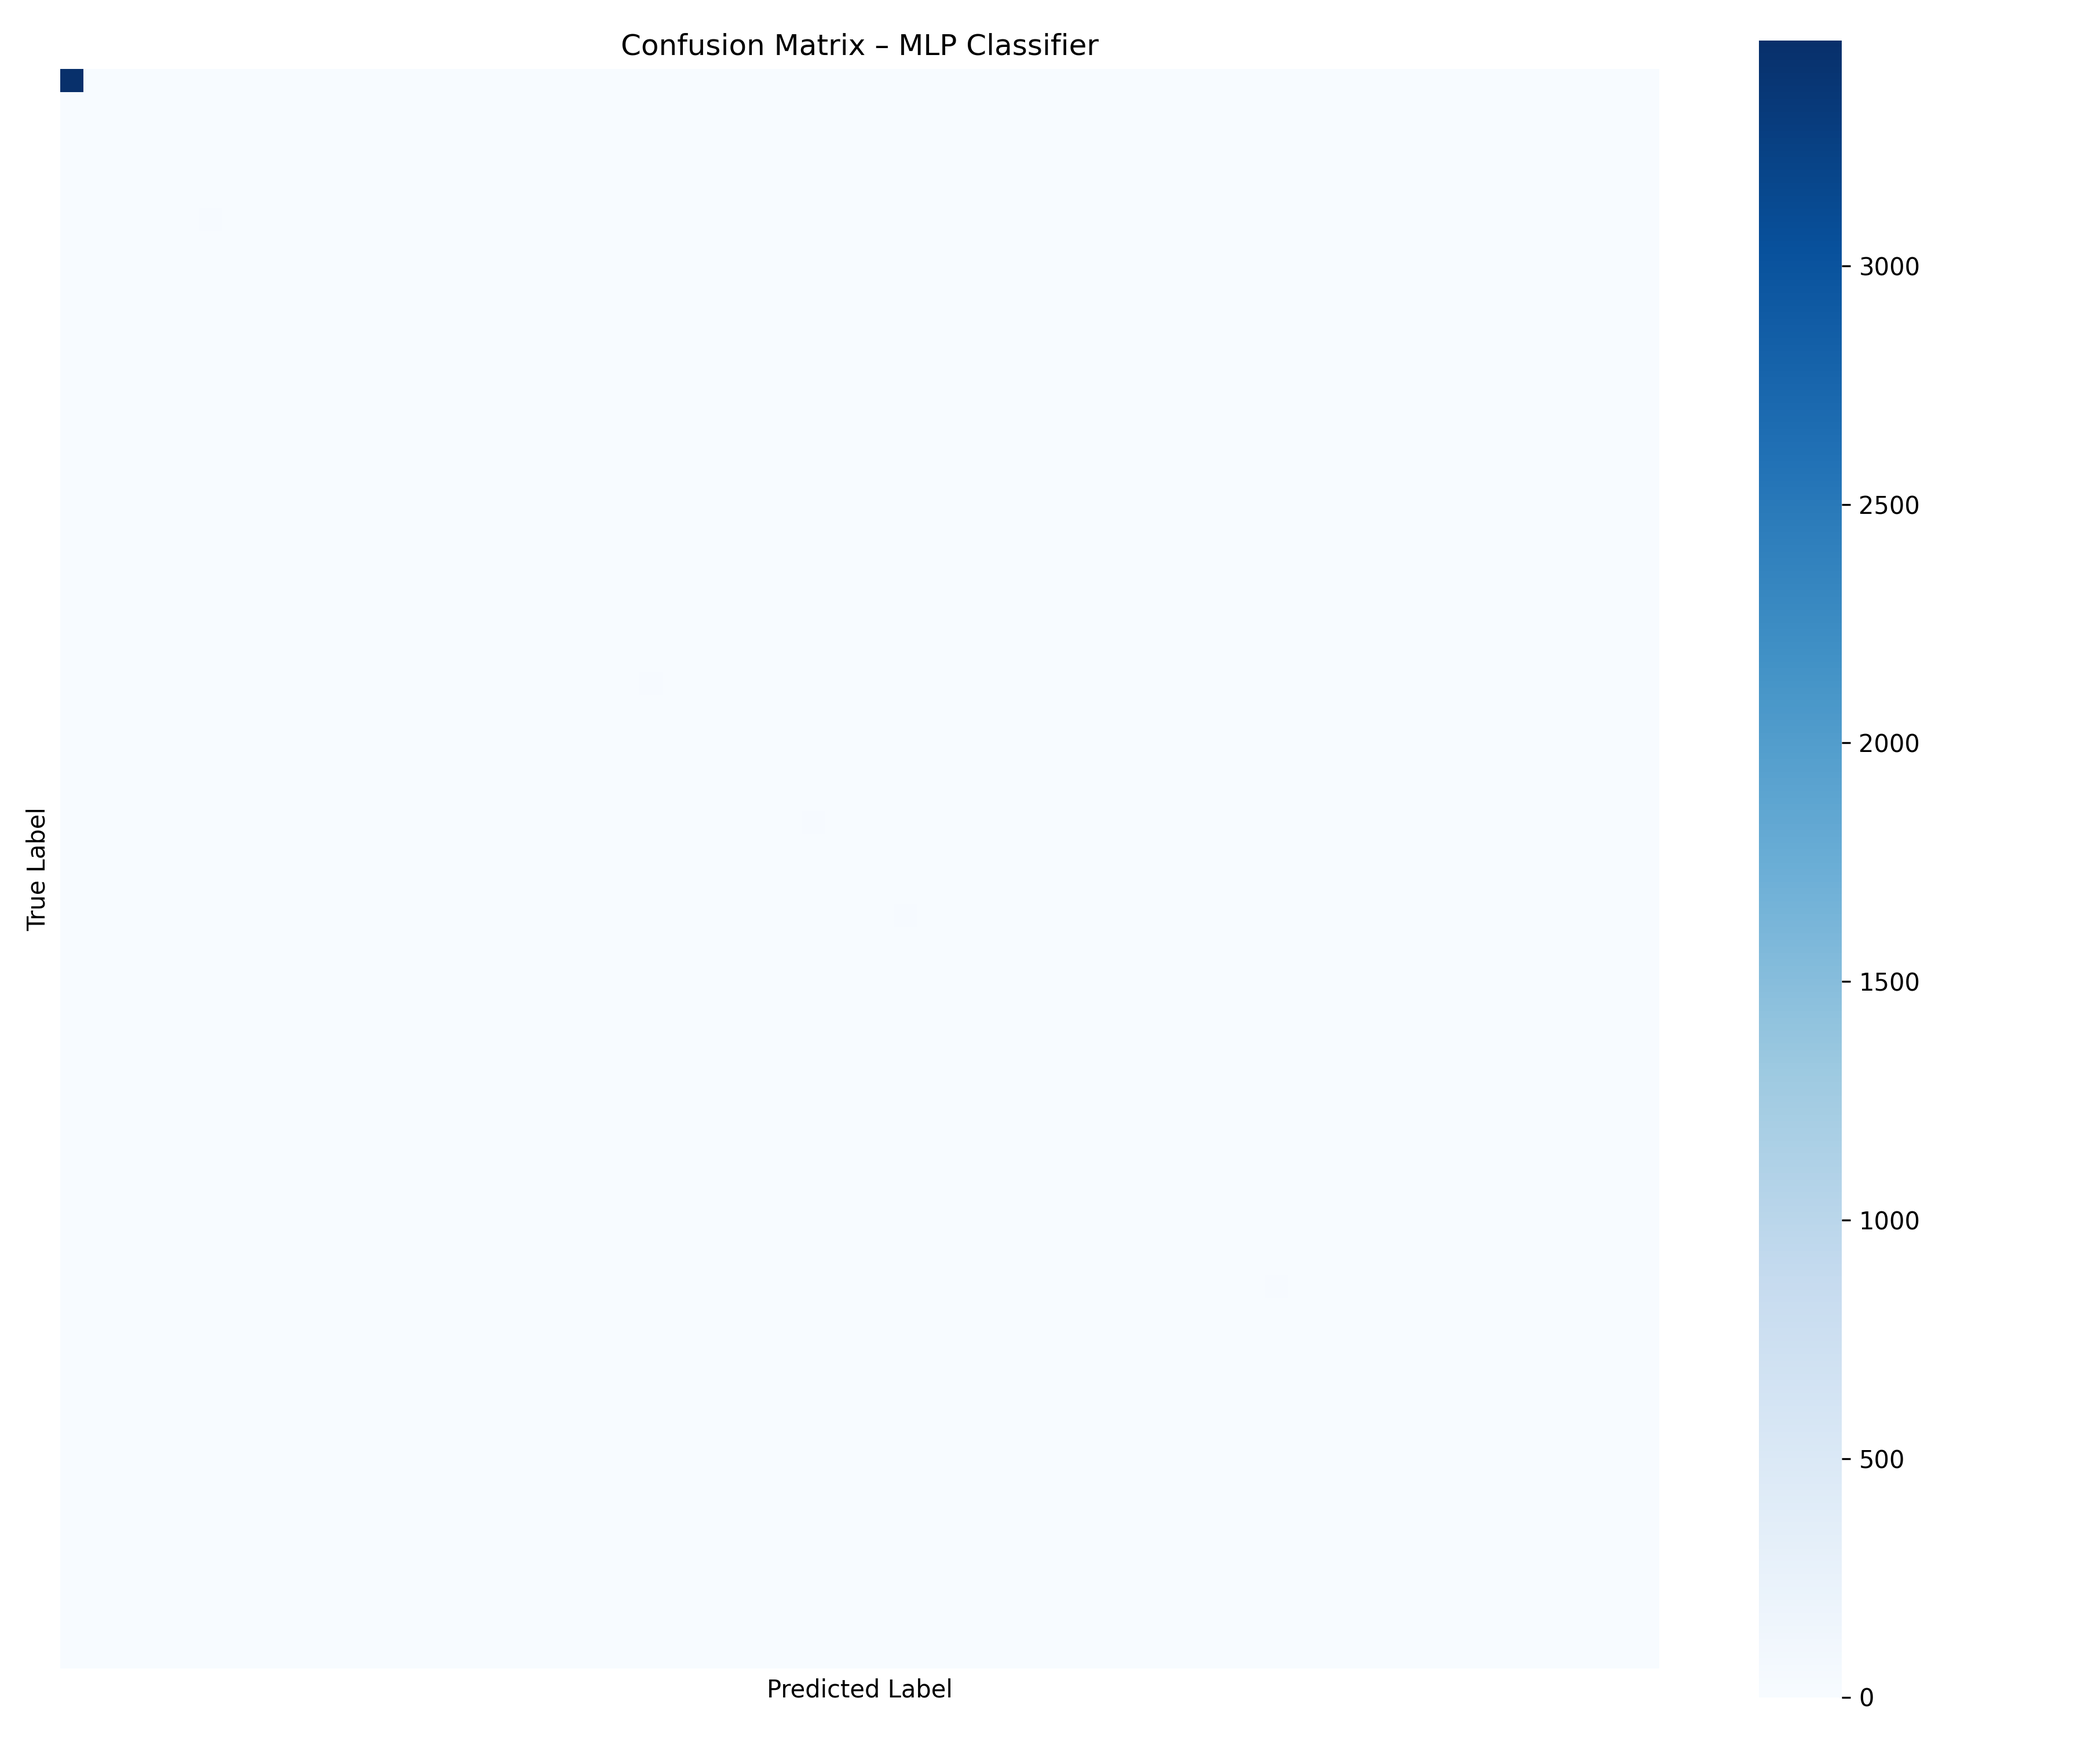
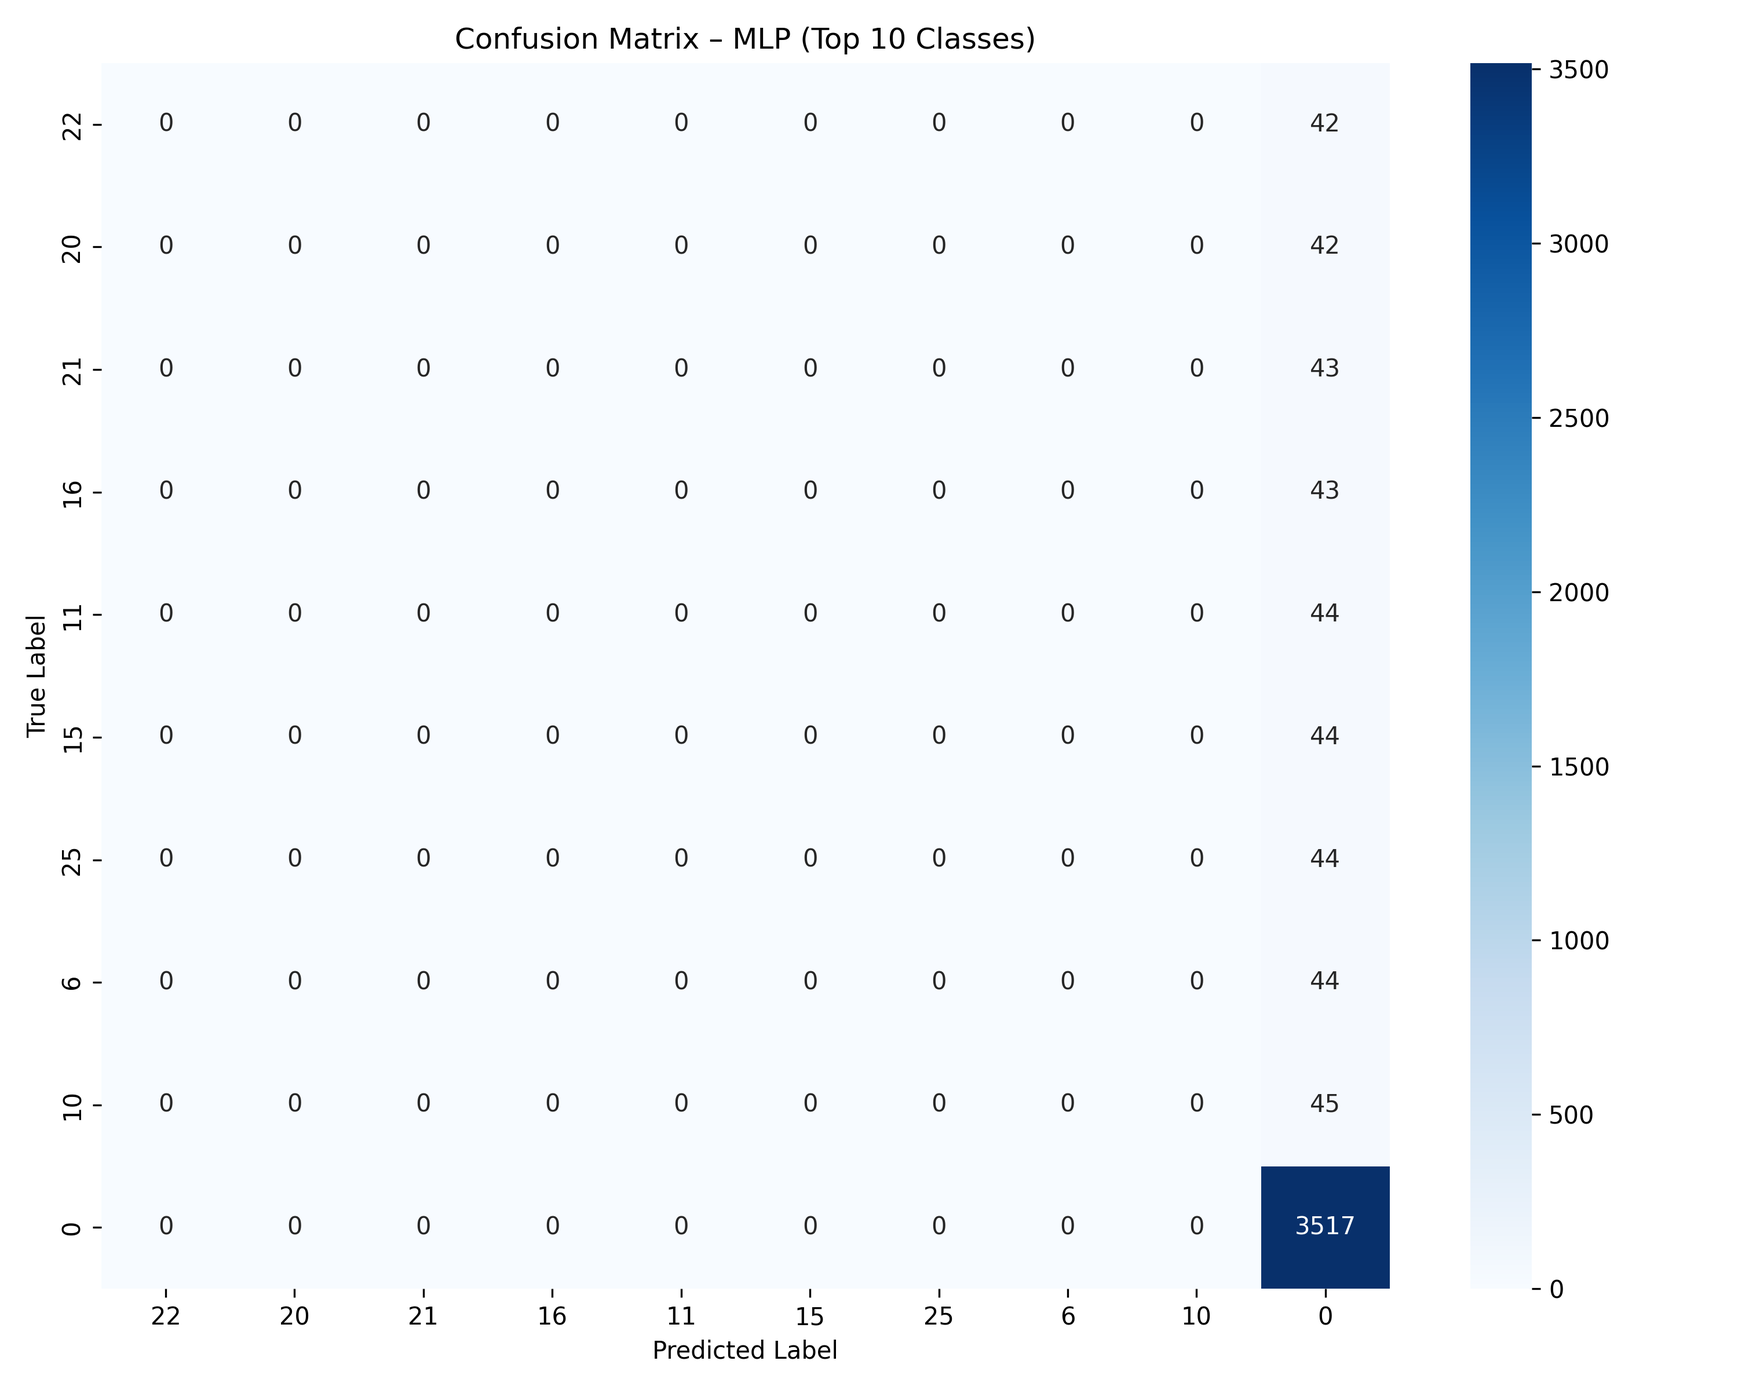
confusion_mayrix

diff --git a/src/09_confusion_matrix.py b/src/09_confusion_matrix.py
@@ -1,66 +1,59 @@
-import numpy as np
 import os
+import numpy as np
 import matplotlib.pyplot as plt
+import seaborn as sns
 from sklearn.metrics import confusion_matrix
 from sklearn.neural_network import MLPClassifier
-from sklearn.preprocessing import StandardScaler
-from sklearn.pipeline import Pipeline
-import seaborn as sns
 
-# --- PATHS ---
-BASE_DIR = os.path.dirname(os.path.dirname(os.path.abspath(__file__)))
-DATA_PATH = os.path.join(BASE_DIR, "data", "dataset_split.npz")
-RESULTS_DIR = os.path.join(BASE_DIR, "results")
+# Load dataset
+data = np.load("../data/dataset_split.npz")
 
-os.makedirs(RESULTS_DIR, exist_ok=True)
-
-# --- LOAD DATA ---
-data = np.load(DATA_PATH)
-X_train = data["X_train"]
-X_test = data["X_test"]
-y_train = data["y_train"]
-y_test = data["y_test"]
+X_train, X_test = data["X_train"], data["X_test"]
+y_train, y_test = data["y_train"], data["y_test"]
 
 print("Dataset loaded.")
 
-# --- TRAIN BEST MODEL (MLP) ---
-model = Pipeline([
-    ("scaler", StandardScaler()),
-    ("mlp", MLPClassifier(
-        hidden_layer_sizes=(256, 128),
-        activation="relu",
-        max_iter=50,
-        random_state=42
-    ))
-])
-
+# Train MLP model
 print("Training MLP model...")
-model.fit(X_train, y_train)
+mlp = MLPClassifier(hidden_layer_sizes=(128,), max_iter=50, random_state=42)
+mlp.fit(X_train, y_train)
 
-# --- PREDICT ---
-y_pred = model.predict(X_test)
+# Predictions
+y_pred = mlp.predict(X_test)
 
-# --- CONFUSION MATRIX ---
-cm = confusion_matrix(y_test, y_pred)
+# ---- NEW PART ----
+# Select top 10 most frequent labels
+unique_labels, counts = np.unique(y_test, return_counts=True)
+top_labels = unique_labels[np.argsort(counts)[-10:]]
 
-# --- PLOT ---
-plt.figure(figsize=(12, 10))
+# Filter data
+mask = np.isin(y_test, top_labels)
+y_test_filtered = y_test[mask]
+y_pred_filtered = y_pred[mask]
+
+# Confusion matrix
+cm = confusion_matrix(y_test_filtered, y_pred_filtered, labels=top_labels)
+
+# Plot
+plt.figure(figsize=(10, 8))
 sns.heatmap(
     cm,
+    annot=True,
+    fmt="d",
     cmap="Blues",
-    square=True,
-    cbar=True,
-    xticklabels=False,
-    yticklabels=False
+    xticklabels=top_labels,
+    yticklabels=top_labels
 )
 
-plt.title("Confusion Matrix – MLP Classifier")
 plt.xlabel("Predicted Label")
 plt.ylabel("True Label")
-
-output_path = os.path.join(RESULTS_DIR, "confusion_matrix_mlp.png")
+plt.title("Confusion Matrix – MLP (Top 10 Classes)")
 plt.tight_layout()
-plt.savefig(output_path, dpi=300)
+
+# Save
+os.makedirs("../results", exist_ok=True)
+plt.savefig("../results/confusion_matrix_mlp.png", dpi=300)
+
 plt.close()
 
-print("Confusion matrix saved to:", output_path)
+print("Confusion matrix saved to results/confusion_matrix_mlp.png")
